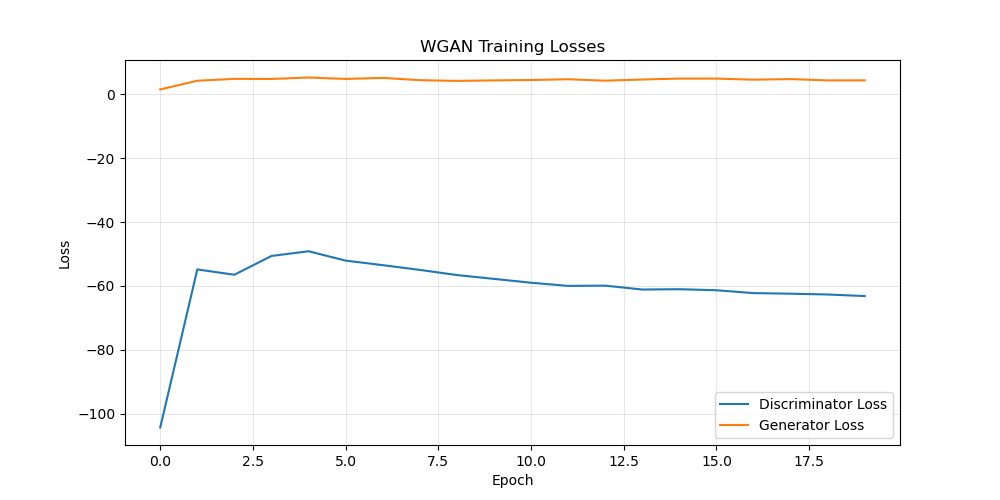
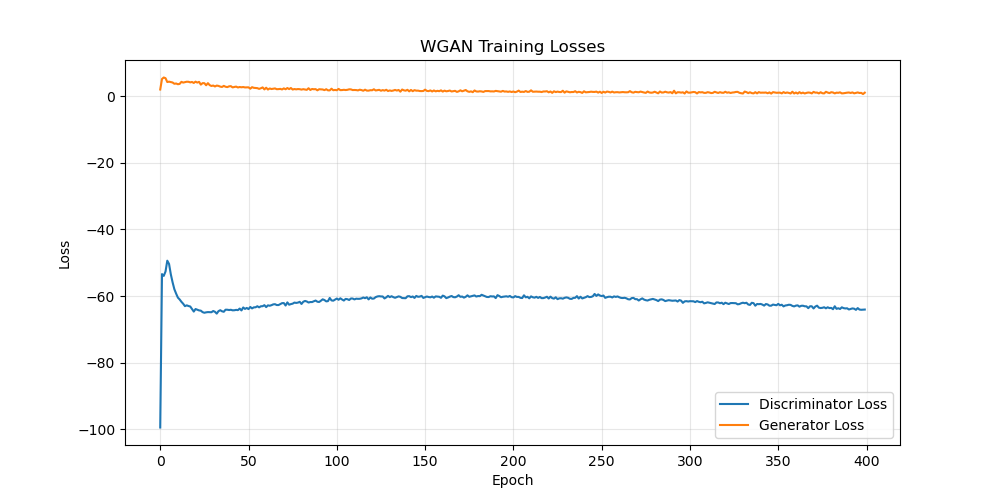
WGAN training

diff --git a/src/03-WGAN.py b/src/03-WGAN.py
@@ -12,7 +12,7 @@ import pickle
 MODE = 'train'  # 'train' or 'generate'
 MODEL_PATH = 'models/wgan_final_model.pkl'  # Path to saved model for generation
 N_IMAGES = 16  # Number of images to generate in generate mode
-EPOCHS = 100  # Number of training epochs
+EPOCHS = 400  # Number of training epochs
 BATCH_SIZE = 64  # Batch size for training
 USE_AUGS = False  # Whether to use augmented data for training
 NOISE_DIM = 100  # Dimension of noise vector
@@ -21,7 +21,7 @@ LAMBDA_GP = 10  # Gradient penalty lambda
 LR = 0.0002  # Learning rate
 BETA1 = 0.5  # Adam optimizer beta1
 BETA2 = 0.999  # Adam optimizer beta2
-SAVE_INTERVAL = 5  # Save model and images every N epochs
+SAVE_INTERVAL = 50  # Save model and images every N epochs
 
 # Define paths
 def get_data_paths():
